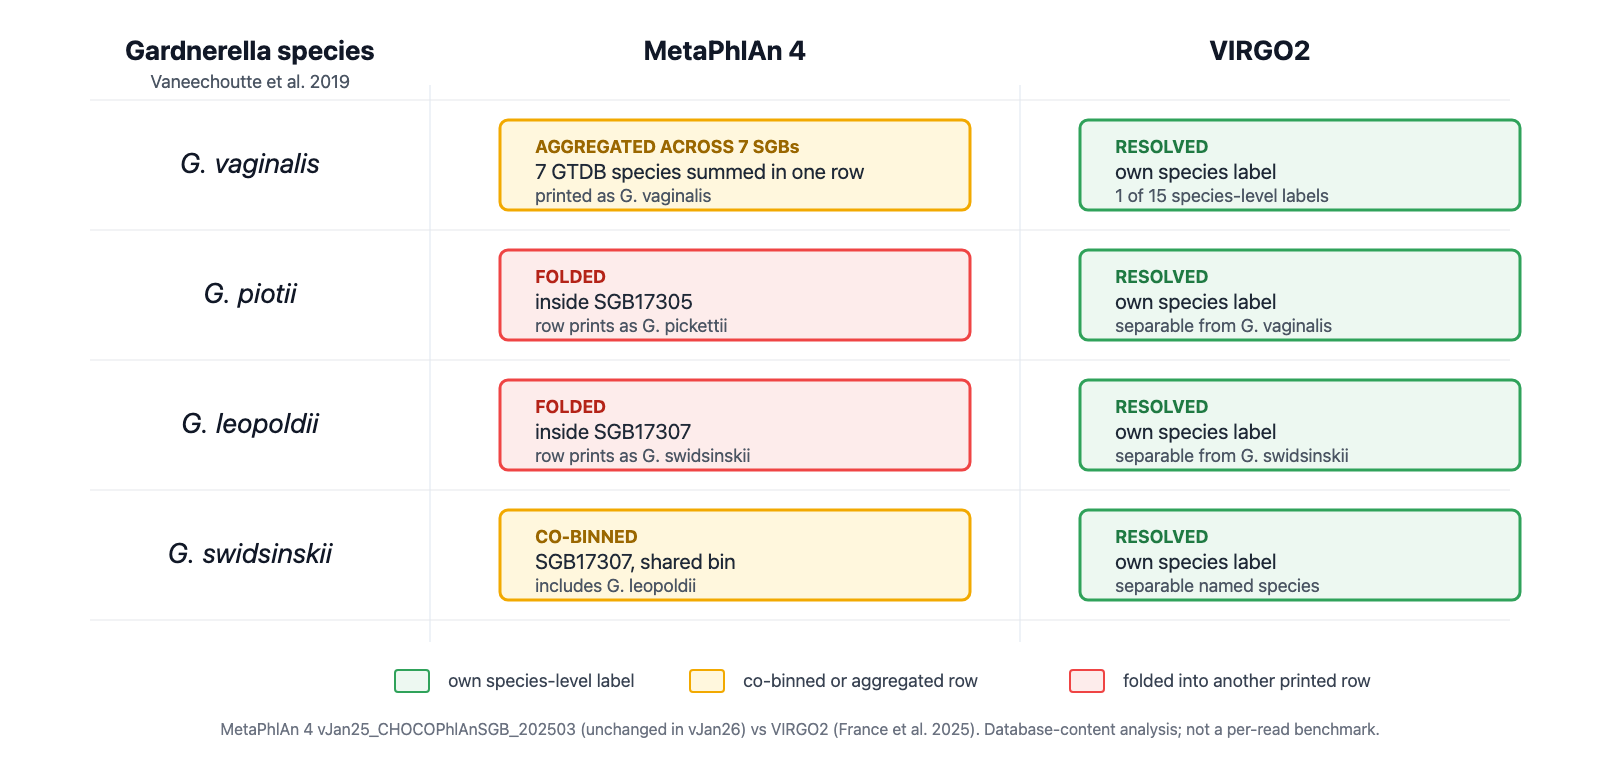
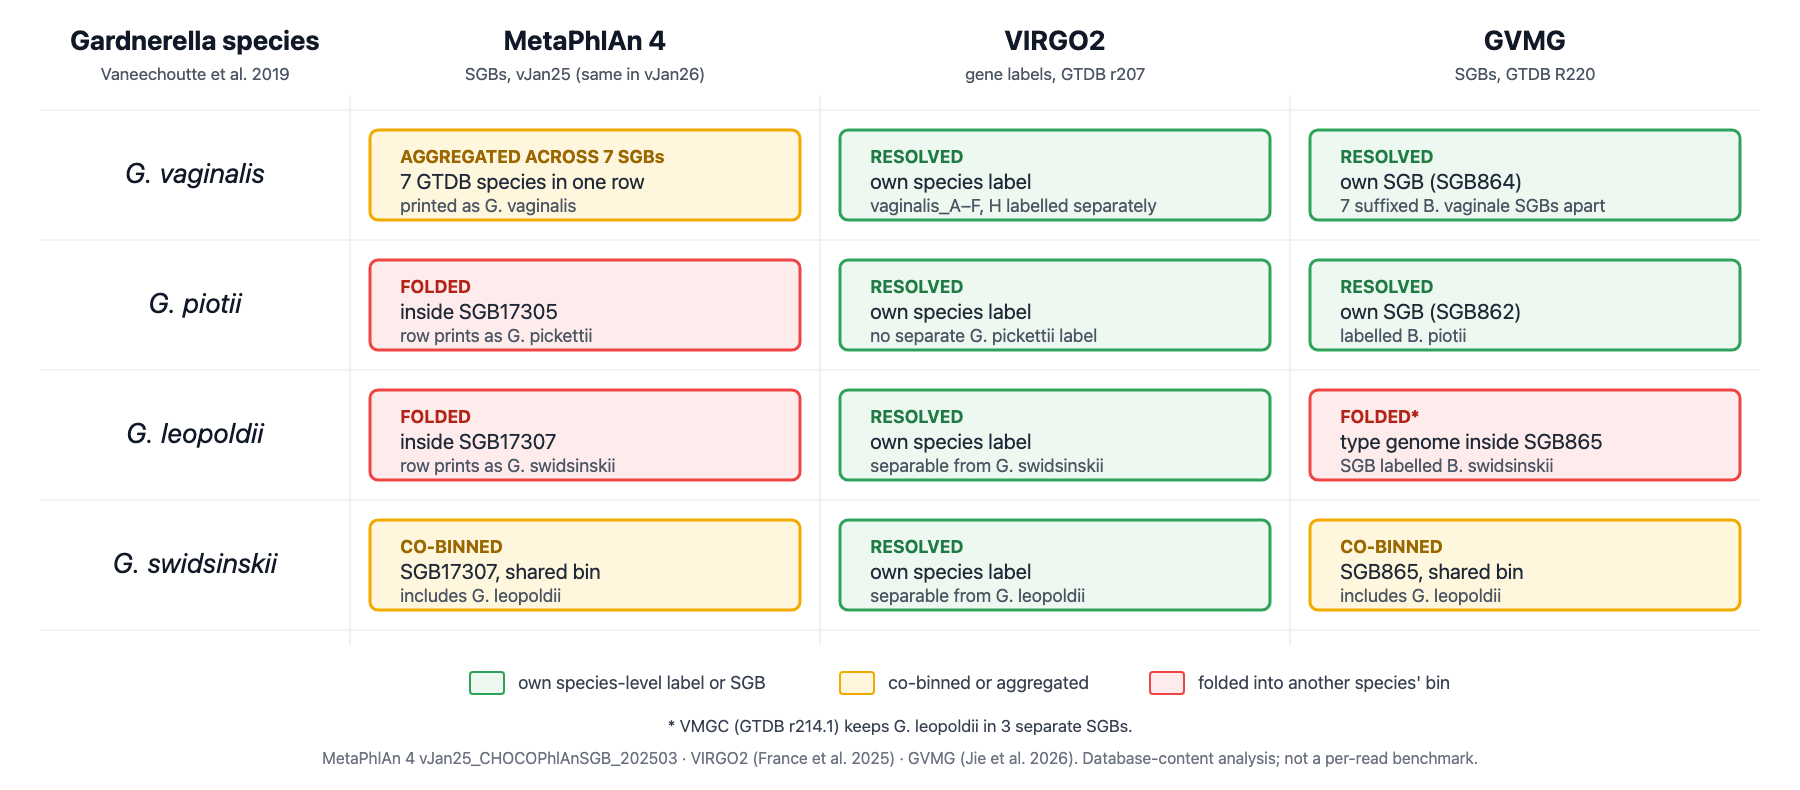
Add GVMG column and VMGC footnote to the Gardnerella figure
- GVMG: leopoldii type genome folded into SGB865 (B. swidsinskii)
- VIRGO2 piotii: no separate G. pickettii label
- Footnote: VMGC (r214.1) keeps G. leopoldii in 3 separate SGBs
- Fix VIRGO2 suffix range (A-F, H) and right-edge overflow

diff --git a/README.md b/README.md
@@ -2,7 +2,7 @@
 
 *MetaPhlAn 4 co-bins* G. piotii *with* G. pickettii *and* G. swidsinskii *with* G. leopoldii, *and its* G. vaginalis *row aggregates seven GTDB species clusters. A database-content comparison of MetaPhlAn 4 (vJan25_CHOCOPhlAnSGB_202503, replicated on vJan26), VIRGO2, VMGC and GVMG. Faruk Dube, 8 June 2026; revised 9 October 2026 (see [Changelog](#changelog)).*
 
-![How MetaPhlAn 4 and VIRGO2 represent the four Gardnerella species of Vaneechoutte et al. 2019](figures/gardnerella_catalog_resolution_matrix.png)
+![How MetaPhlAn 4, VIRGO2 and GVMG represent the four Gardnerella species of Vaneechoutte et al. 2019](figures/gardnerella_catalog_resolution_matrix.png)
 
 ## Summary
 
@@ -128,7 +128,7 @@ Requires bash, curl and python3 (standard library only). [`ref/inputs.tsv`](ref/
 - GVMG contains *G. leopoldii* (in SGB865); previously reported absent.
 - Broad check: 4 of 17 taxa, not 8 (old count included unnamed-genome sharing and split-only taxa).
 - *G. vaginalis* row: "aggregated", not "inflated".
-- Added the SGB→GTDB mapping, vJan26 replication and type-strain crosswalk.
+- Added the SGB→GTDB mapping, vJan26 replication, type-strain crosswalk and a GVMG column in the figure.
 - `reproduce.sh` derives every table from pinned inputs; the old one broke on an https redirect, used `grep -P` and skipped two tables.
 - Fixed misquotations of Bradshaw et al. 2025 and the VIRGO2 mock-community caveat.
 
